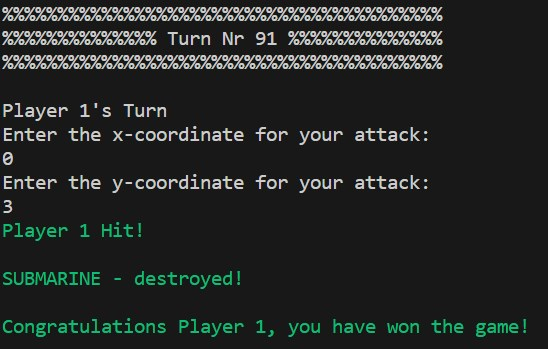
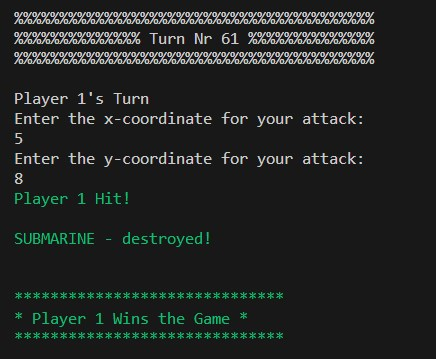
Add ci python linter validation test to readme

diff --git a/classes/Game.py b/classes/Game.py
@@ -5,6 +5,7 @@ from classes.Ship import Ship
 from colorama import Fore, Style
 import random
 
+
 class Game:
     """
     Represents a Battleship game.
@@ -16,7 +17,7 @@ class Game:
 
     def __init__(self):
         """
-        Initialize a Battleship game with two players and initial turn settings.
+        Initialize a Battleship game with two players and init turn settings.
         """
         self.players = [Player("Player 1", Board(9, 9)),
                         Player("Computer", Board(9, 9))]
@@ -24,7 +25,7 @@ class Game:
 
     def start_game(self):
         """
-        Start the Battleship game, allowing players to place their ships and initiating turns.
+        Start the game, allowing players to place their ships and init turns.
         """
 
         # Display a welcome message and game instructions
@@ -52,7 +53,7 @@ class Game:
                 start_action = int(input("Enter your choice: \n"))
 
                 if start_action == 1:
-                     # if start game then place ships and display boards
+                    # if start game then place ships and display boards
                     self.place_ships(self.players[0])
                     self.place_ships(self.players[1])
                     self.display_boards()
@@ -64,11 +65,13 @@ class Game:
                 else:
                     raise ValueError
             except ValueError:
-                print(Fore.RED + "Invalid input. Please enter a valid integer (1, 2).")
+                print(Fore.RED)
+                print("Invalid input. Please enter a valid integer (1, 2).")
                 print(Style.RESET_ALL)
                 continue
             except Exception:
-                print(Fore.GREEN + "Your random values can not crash this battleship.")
+                print(Fore.GREEN)
+                print("Your random values can not crash this battleship.")
                 print("Try again and make your move ;) \n")
                 print(Style.RESET_ALL)
                 continue
@@ -88,7 +91,7 @@ class Game:
         Parameters:
         - player (Player): The player for whom ships are to be placed.
         """
-        
+
         # List of ship types to be placed for the player
         ship_types = [
             ShipType.PATROL_BOAT,
@@ -106,7 +109,7 @@ class Game:
         """
         Display the game boards of all players.
         """
-        
+
         # Iterate through each player in the game
         for player in self.players:
             # Determine whether to show ships on the board or not
@@ -136,7 +139,7 @@ class Game:
         print("%" * 40 + "\n")
 
         # Determine current and other player based on the turn number
-        if not self.turn % 2 == 0: 
+        if not self.turn % 2 == 0:
             # Player turn
             current_player = self.players[0]
             other_player = self.players[1]
@@ -193,25 +196,29 @@ class Game:
                     x = int(input("Enter the x-coordinate for your attack:\n"))
                     y = int(input("Enter the y-coordinate for your attack:\n"))
 
-                # Check if the chosen coordinates are within the board boundaries
+                # Check if the coordinates are within the board boundaries
                 if (0 <= x < other_player.board.width and
                         0 <= y < other_player.board.height):
-                    # Break the loop if coordinates haven't been attacked before, then return them
+                    # Break loop if coordinates haven't been attacked before
                     if (x, y) not in other_player.board.attacks:
                         break
                     else:
-                        print(Fore.YELLOW + "You've already attacked these coordinates.")
+                        print(Fore.YELLOW)
+                        print("You've already attacked these coordinates.")
                         print(Style.RESET_ALL)
                 else:
-                    print(Fore.RED + "Please choose coordinates within the board (0 - 8).")
+                    print(Fore.RED)
+                    print("Please choose coordinates within the board (0-8).")
                     print(Style.RESET_ALL)
 
             except ValueError:
-                print(Fore.RED + "Please enter valid integers for x and y coordinates.")
+                print(Fore.RED)
+                print("Please enter valid integers for x and y coordinates.")
                 print(Style.RESET_ALL)
                 continue
             except Exception:
-                print(Fore.GREEN + "Your random values can not crash this battleship.")
+                print(Fore.GREEN)
+                print("Your random values can not crash this battleship.")
                 print("Try again and make your move ;) \n")
                 print(Style.RESET_ALL)
                 continue
@@ -245,10 +252,10 @@ class Game:
         """
 
         for ship in player.board.ships:
-            # if the ship hasn't been destroyed already, check if it was destroyed now
+            # if the ship hasn't been destroyed already
             if ship not in player.board.already_sunk_ships:
                 if ship.is_sunk():
-                    print(Fore.GREEN +  f"{ship.ship_type.name} - destroyed!")
+                    print(Fore.GREEN + f"{ship.ship_type.name} - destroyed!")
                     # Remove ship after it was destroyed
                     player.board.already_sunk_ships.append(ship)
                     print(Style.RESET_ALL)
@@ -259,22 +266,24 @@ class Game:
         """
         while True:
             try:
-                user_action = str(input("Press Enter to continue or q to quit:\n"))
+                action = str(input("Press Enter to continue or q to quit:\n"))
 
-                if not user_action:
+                if not action:
                     # If Enter is pressed, display player boards and continue
                     self.display_boards()
                     break
-                elif user_action.lower() == "q":
+                elif action.lower() == "q":
                     # If 'q' is entered, end the game
                     self.end_game()
 
             except ValueError:
-                print(Fore.RED + "Please enter 'q' to quit or press Enter to continue.")
+                print(Fore.RED)
+                print("Please enter 'q' to quit or press Enter to continue.")
                 print(Style.RESET_ALL)
                 continue
             except Exception:
-                print(Fore.GREEN + "Your random values can not crash this battleship.")
+                print(Fore.GREEN)
+                print("Your random values can not crash this battleship.")
                 print("Try again and make your move ;) \n")
                 print(Style.RESET_ALL)
                 continue

diff --git a/classes/Board.py b/classes/Board.py
@@ -1,6 +1,7 @@
-from colorama import Fore, Style 
+from colorama import Fore, Style
 from classes.Orientation import Orientation
 import random
+
 
 class Board:
     """
@@ -50,7 +51,7 @@ class Board:
             x = random.randint(0, self.width - 1)
             y = random.randint(0, self.height - 1)
 
-            # Check if the ship fits in the chosen orientation and starting position within the board boundaries
+            # Check if the ship fits the orientation and starting position
             is_horizontal = orientation == Orientation.HORIZONTAL
             fits_horizontally = x + ship.ship_type.value <= self.width
             is_vertical = orientation == Orientation.VERTICAL
@@ -132,14 +133,14 @@ class Board:
                 # Customize cell content display based on the type of content
                 if cell_content == "X":
                     # Display hit in green
-                    row_str += f" {Fore.GREEN + cell_content + Style.RESET_ALL} |"
+                    row_str += f" {Fore.GREEN+cell_content+Style.RESET_ALL} |"
                 elif cell_content == "/":
                     # Display miss in red
-                    row_str += f" {Fore.RED + cell_content + Style.RESET_ALL} |"
+                    row_str += f" {Fore.RED+cell_content+Style.RESET_ALL} |"
                 else:
                     # Display ship in yellow
-                    row_str += f" {Fore.YELLOW + cell_content + Style.RESET_ALL} |"
-            
+                    row_str += f" {Fore.YELLOW+cell_content+Style.RESET_ALL} |"
+
             # Print the current row and separator line
             print(row_str)
             print("   +" + "+".join(["---" for _ in range(self.width)]) + "+")
@@ -171,10 +172,10 @@ class Board:
             # Display "/" if the attack missed all ships
             if not any((x, y) in ship.hits for ship in self.ships):
                 return "/"
-            
+
         # If the cell has no ship and has not been attacked
         return " "
-        
+
     def all_ships_sunken(self):
         """
         Check if all ships on the board are sunk.

diff --git a/classes/main.py b/classes/main.py
@@ -1,25 +1,28 @@
 from colorama import Fore, Style
 from classes.Game import Game
 
+
 def main():
     """
     The main function responsible for running the Battleship game.
 
-    This function creates a new instance of the Game class, starts the game, and
-    iteratively plays turns until one player's ships are all sunk. The winning
-    player is then determined, and the game is over.
+    This function creates a new instance of the Game class, starts the game,
+    and iteratively plays turns until one player's ships are all sunk.
+    The winning player is then determined, and the game is over.
 
     Raises:
     - Exception: Any unexpected error during the execution of the game.
 
     Note:
-    The main function handles exceptions and provides guidance in case of errors.
+    The main function handles exceptions and
+    provides guidance in case of errors.
     """
     while True:
         try:
             # new Game instance
             game = Game()
-            # Start the game by placing ships for both players and displaying the initial boards
+            # Start the game by placing ships for both players
+            # and displaying the initial boards
             game.start_game()
 
             # Initialize defeat flags for both players
@@ -39,11 +42,15 @@ def main():
                 winning_player = game.players[0]
 
             # Display the winning player
-            print(Fore.GREEN + f"Congratulations {winning_player.name}, you have won the game!")
+            print(Fore.GREEN)
+            print("*" * 30)
+            print(f"* {winning_player.name} Wins the Game *")
+            print("*" * 30)
             print(Style.RESET_ALL)
             break
         except Exception:
-            print(Fore.GREEN + "Your random values can not crash this battleship.")
+            print(Fore.GREEN)
+            print("Your random values can not crash this battleship.")
             print("Try again and make your move ;) \n")
             print(Style.RESET_ALL)
             continue

diff --git a/classes/Player.py b/classes/Player.py
@@ -6,7 +6,7 @@ class Player:
     - name (str): The name of the player.
     - board (Board): The game board associated with the player.
     """
-    
+
     def __init__(self, name, board):
         """
         Initialize a player with the given name and game board.

diff --git a/classes/ShipType.py b/classes/ShipType.py
@@ -1,5 +1,6 @@
 from enum import Enum
 
+
 class ShipType(Enum):
     """
     Enumeration defining types of ships with corresponding lengths.

diff --git a/README.md b/README.md
@@ -319,7 +319,17 @@ Run debugging tests to ensure the robustness and correct functioning of critical
 | Debugging - Check methods by observing and verifying correct functionality | Observe the execution of key methods (e.g., receive_attack, check_sunk_ships) and verify that they operate correctly. | Confirms that methods execute without errors and produce expected results.                 | Pass        |
 
 ## Validator Testing
-PEP8 ... 
+CI Python Linter - I utilised [pep8ci.herokuapp.com](https://pep8ci.herokuapp.com/#) to validate my python code. 
+All python files were checked with no errors or warnings reported.
+
+* Screenshots of the validator reports are here:
+    * [Main](./doc/ci_python_linter_main.jpg)
+    * [Board-Class](./doc/ci_python_linter_board.jpg)
+    * [Game-Class](./doc/ci_python_linter_game.jpg)
+    * [Player-Class](./doc/ci_python_linter_player.jpg)
+    * [Ship-Class](./doc/ci_python_linter_ship.jpg)
+    * [ShipType-Enum](./doc/ci_python_linter_shiptype.jpg)
+    * [Orientation-Enum](./doc/ci_python_linter_orientation.jpg)
 
 # Libraries Utilised
 
